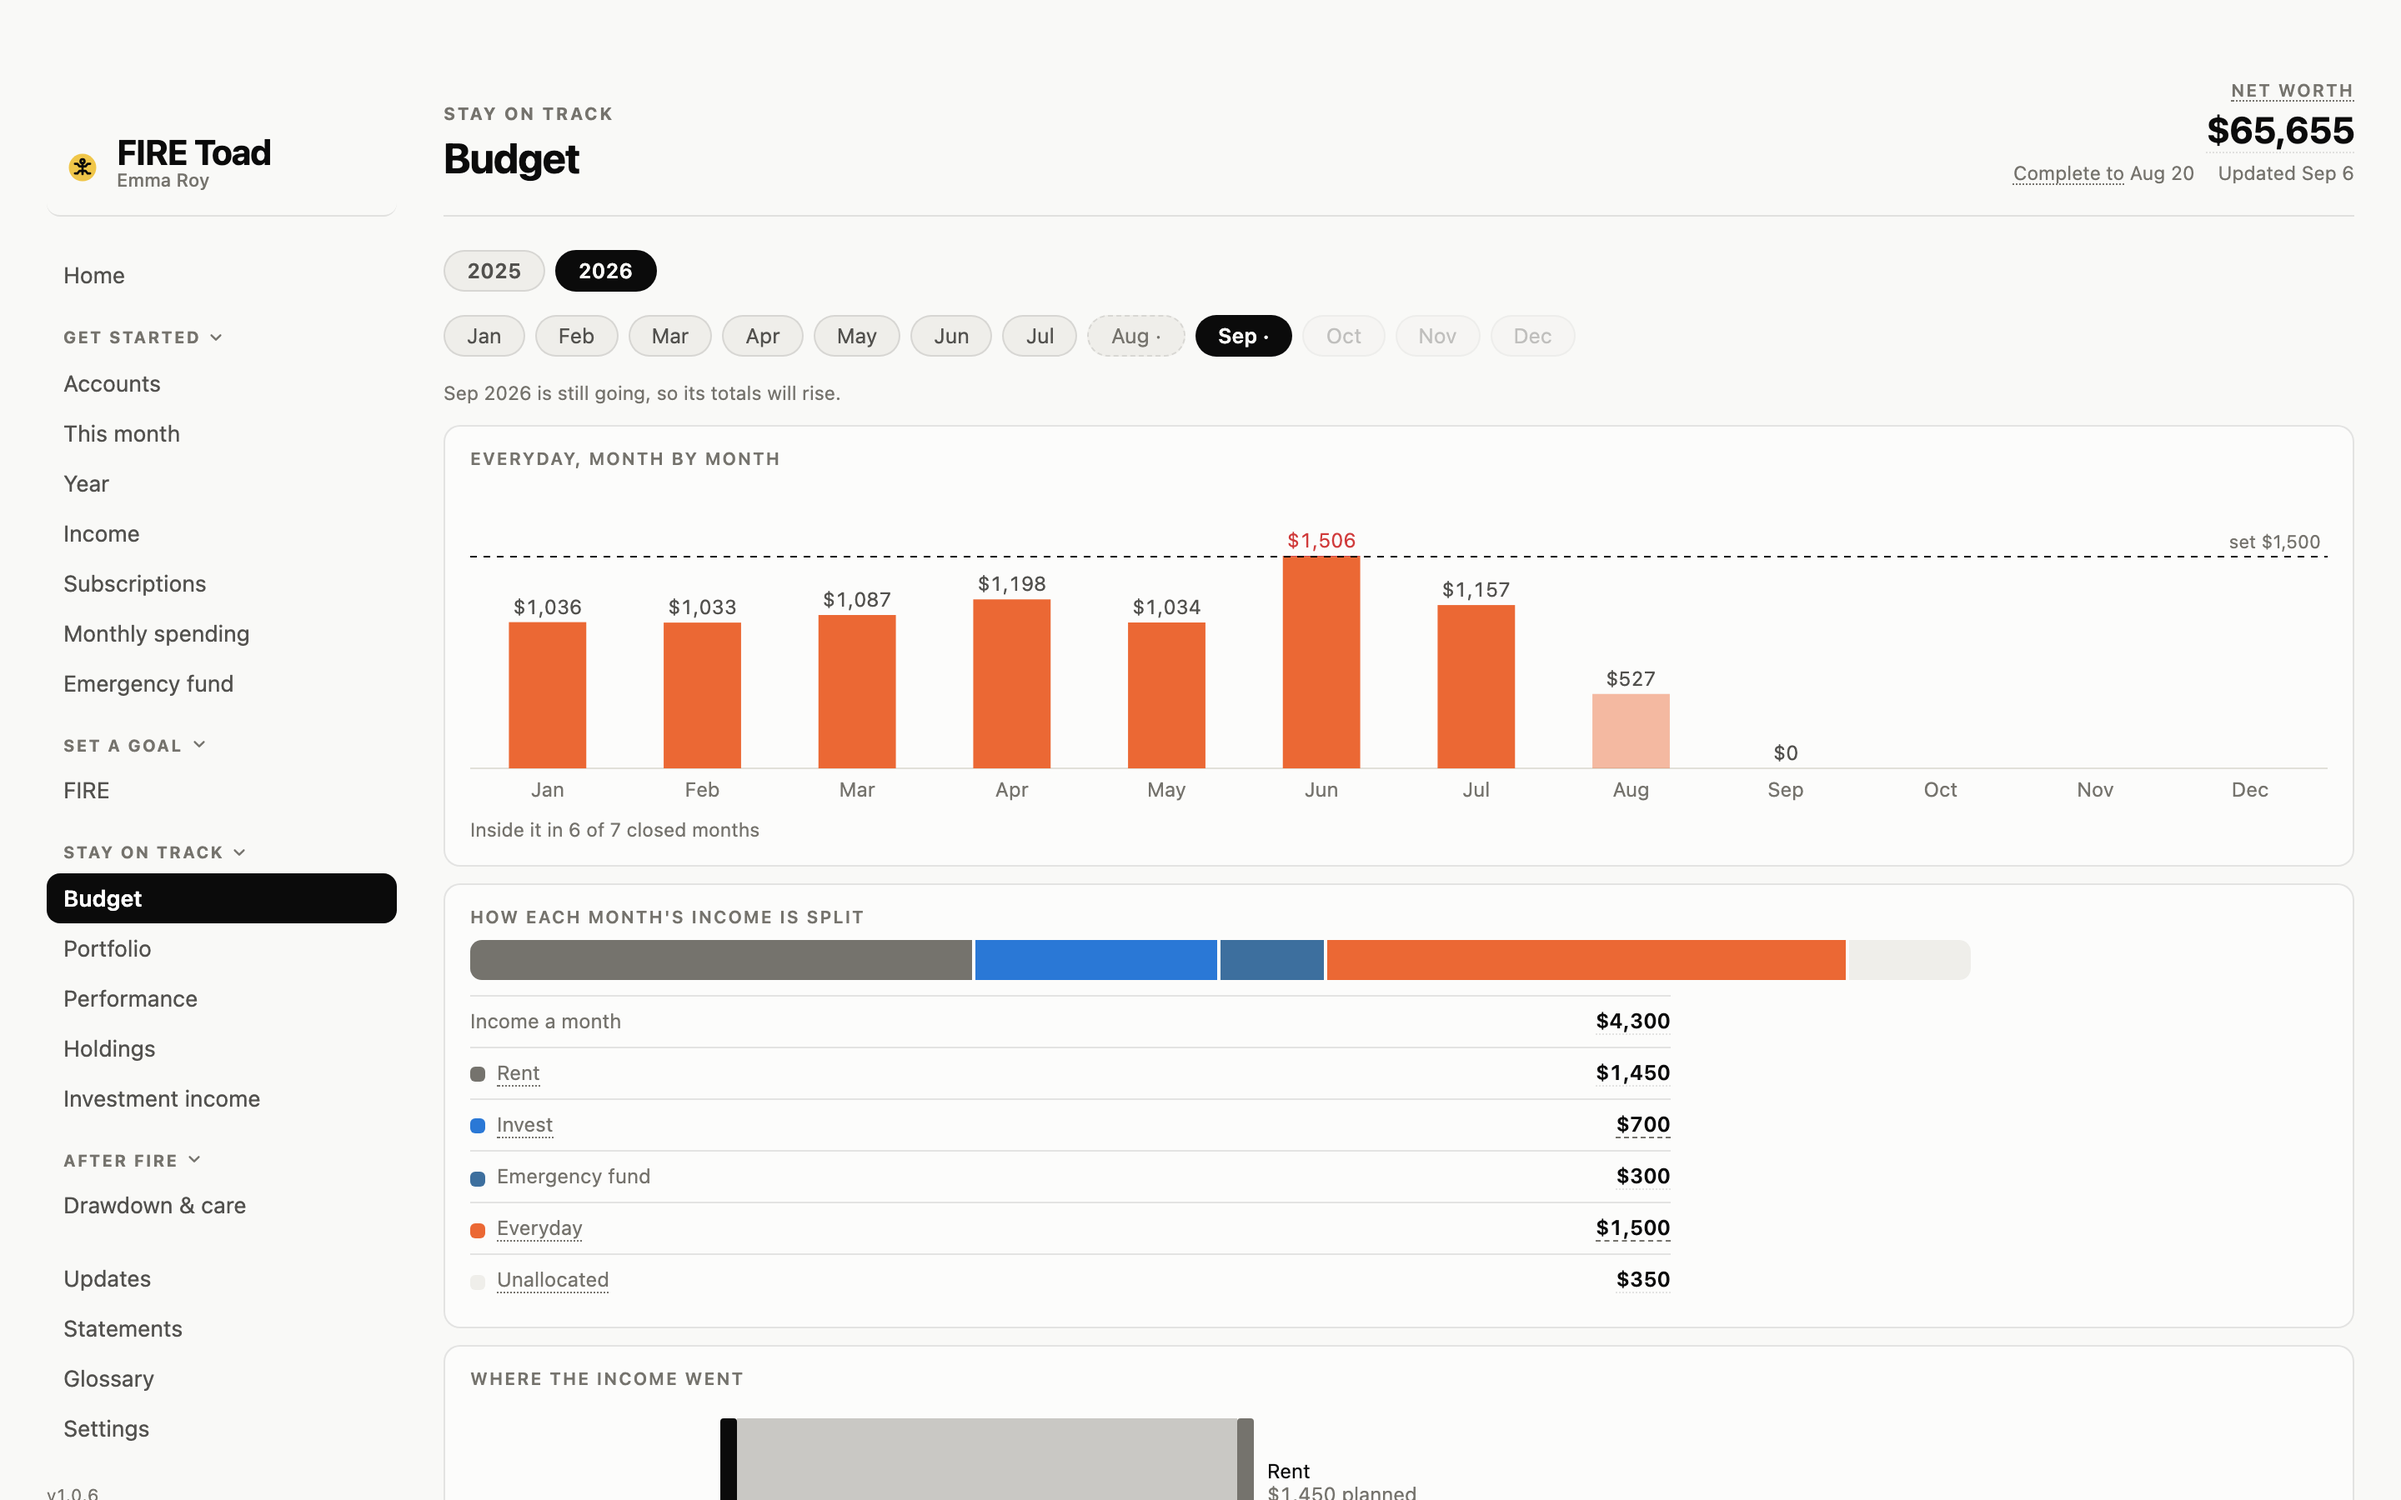
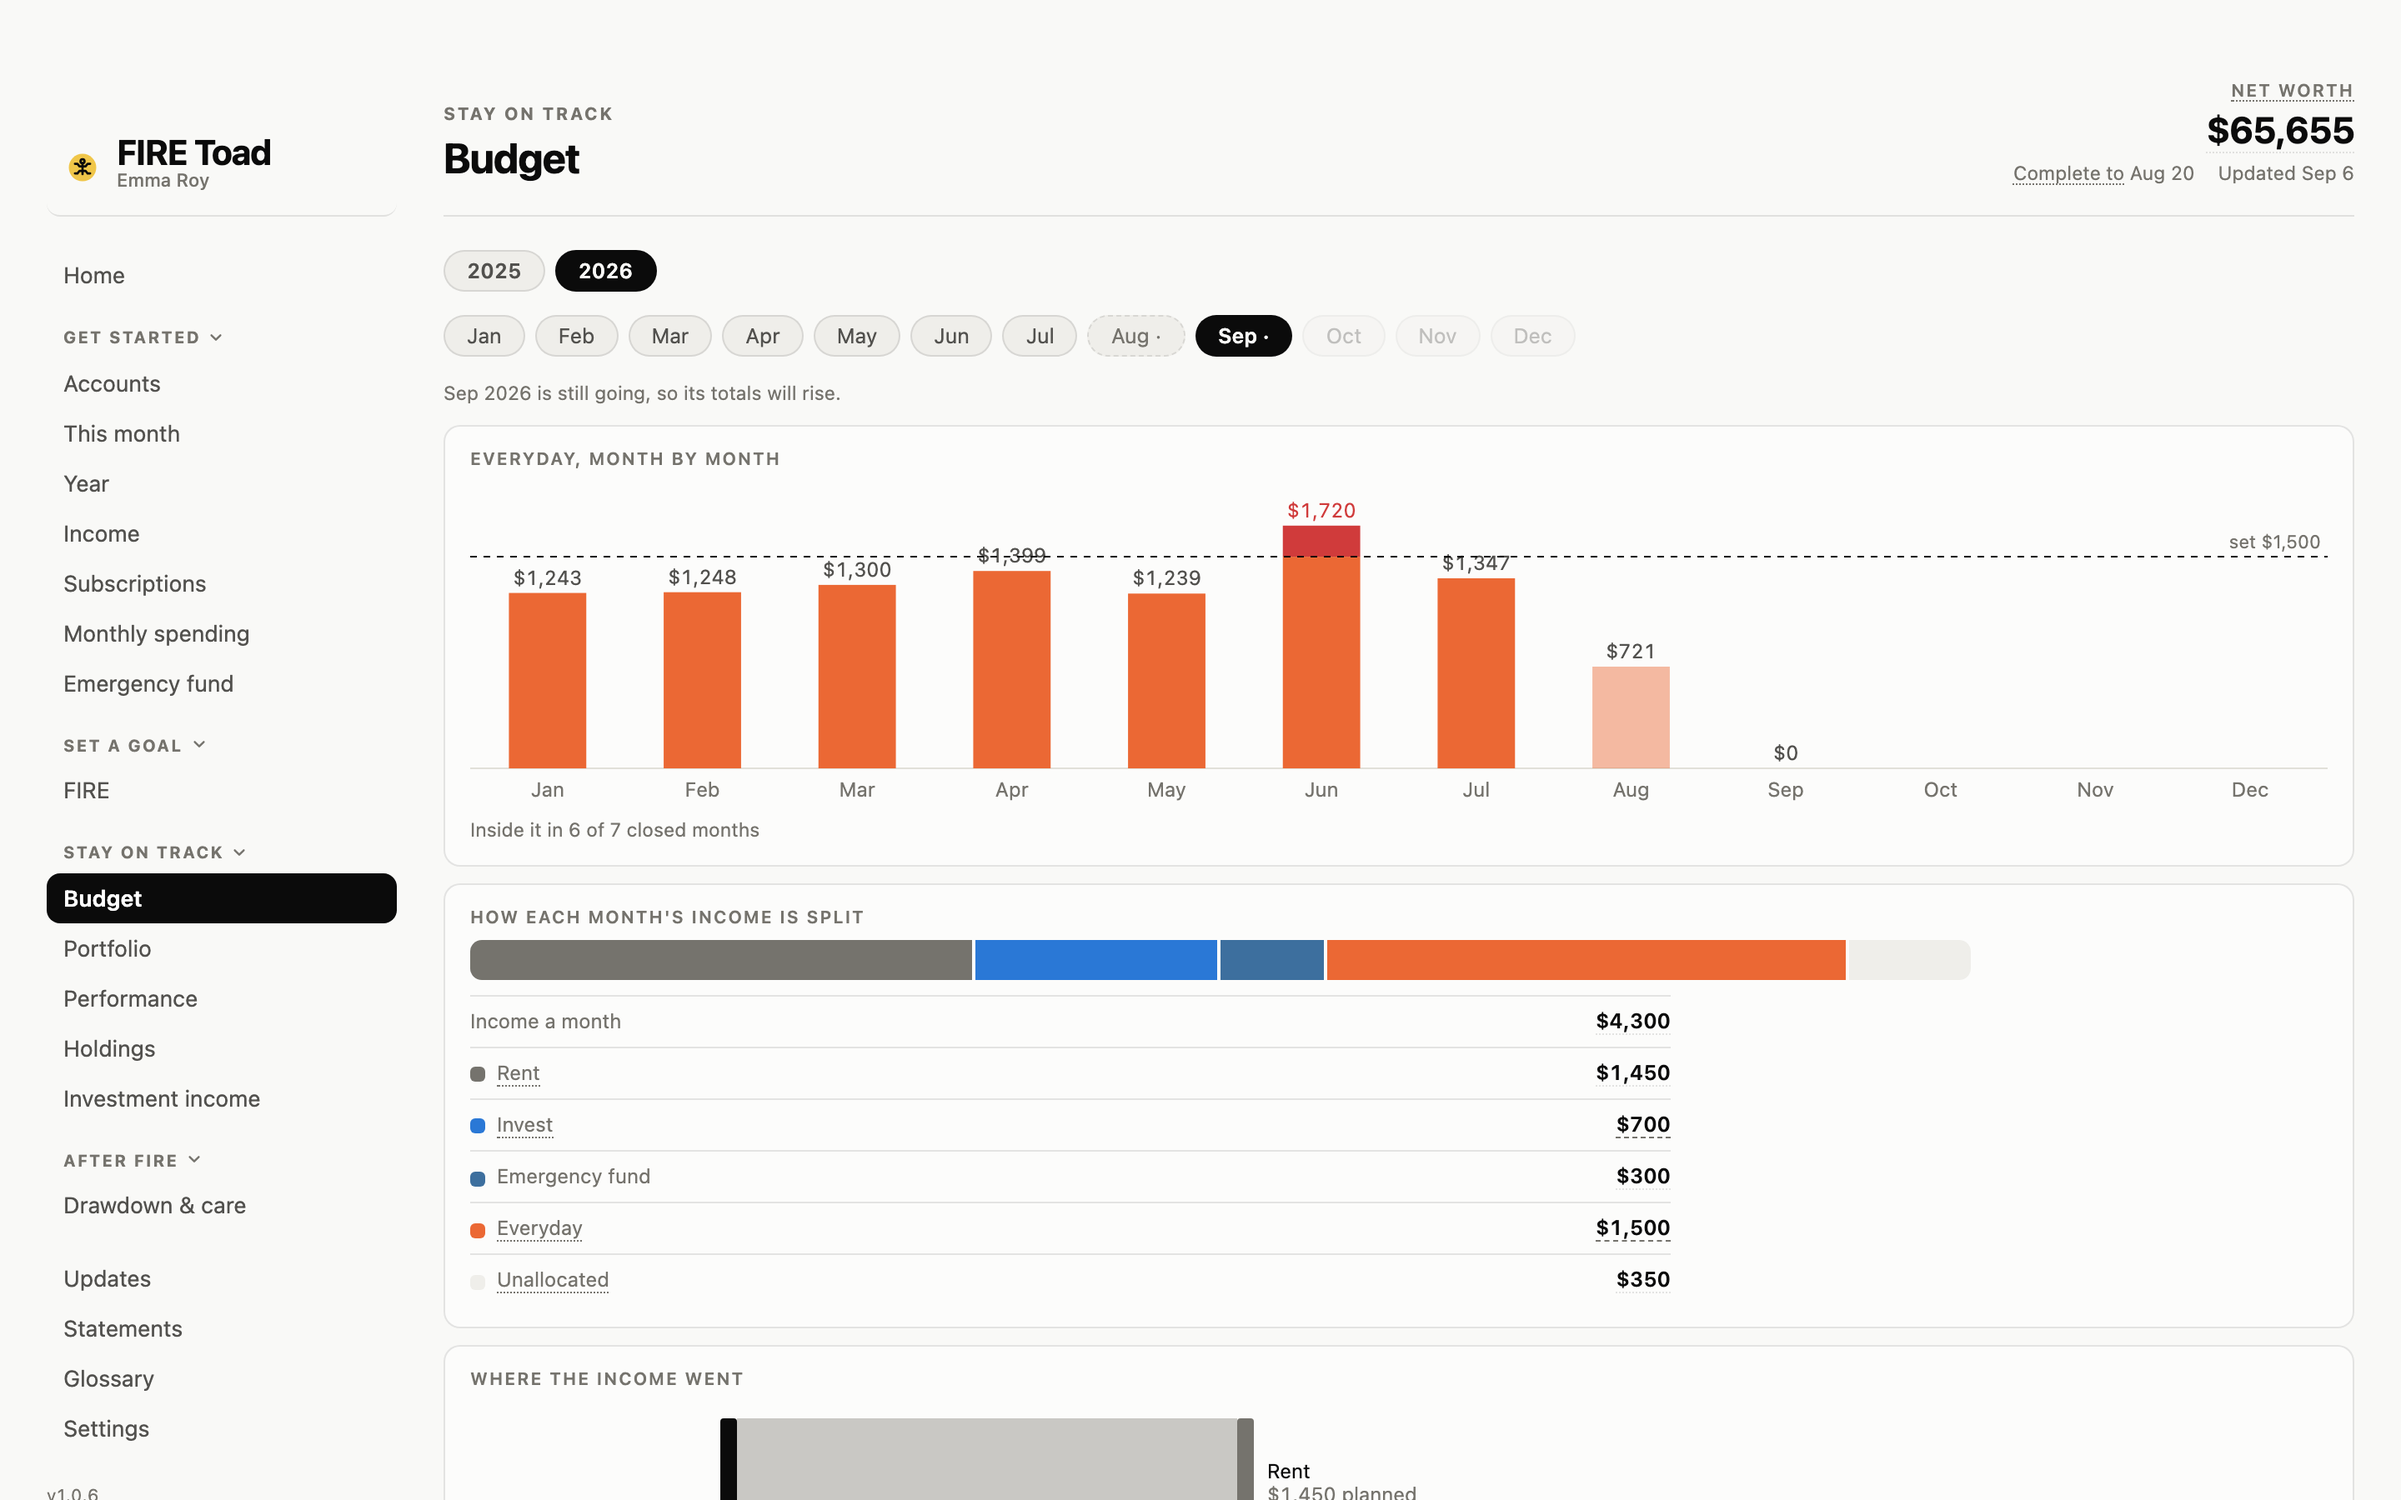
Pictures retaken on 1.0.7: the demo over http, the panel asking about the e-Transfer

diff --git a/docs/site/make.py b/docs/site/make.py
@@ -59,7 +59,7 @@ EN = dict(
            ("Categorize", "Answer what a program cannot decide: a shop seen for the first time, "
                           "a transfer with no name. One tap each, remembered next time."),
            ("Done", "Your page is rebuilt with the new month.")],
-    panel_img="panel.png", panel_alt="The monthly import in the app, at step 3: categorize a merchant",
+    panel_img="panel.png", panel_alt="The monthly import in the app, at step 3: what was a $200 e-Transfer with no sender?",
     q_lab="What it answers",
     qs=[("Where do I stand?", "Net worth across every account and currency: a row for what each part "
                               "is for, its bar coloured by how easily you could reach it.",
@@ -116,7 +116,7 @@ ZH = dict(
            ("导入", "把文件放进来。每份都在你的 Mac 上读，对平了才收。"),
            ("归类", "程序定不了的才问你：第一次出现的商户、没有名字的转账。点一下就好，下次记得。"),
            ("完成", "你的页面带上新的一个月，重新生成。")],
-    panel_img="panel-zh.png", panel_alt="app 里的月度导入，第 3 步：给一个商户归类",
+    panel_img="panel-zh.png", panel_alt="app 里的月度导入，第 3 步：一笔没写是谁的 $200 e-Transfer 是什么？",
     q_lab="它回答什么",
     qs=[("我现在在哪？", "所有账户、所有币种算在一起的净值：每一行是这部分钱的用途，色条按多容易拿到上色。",
          "crop-home.png", "首页：净值 $65,655、离财务自由几年、这个月的投资和花销"),
